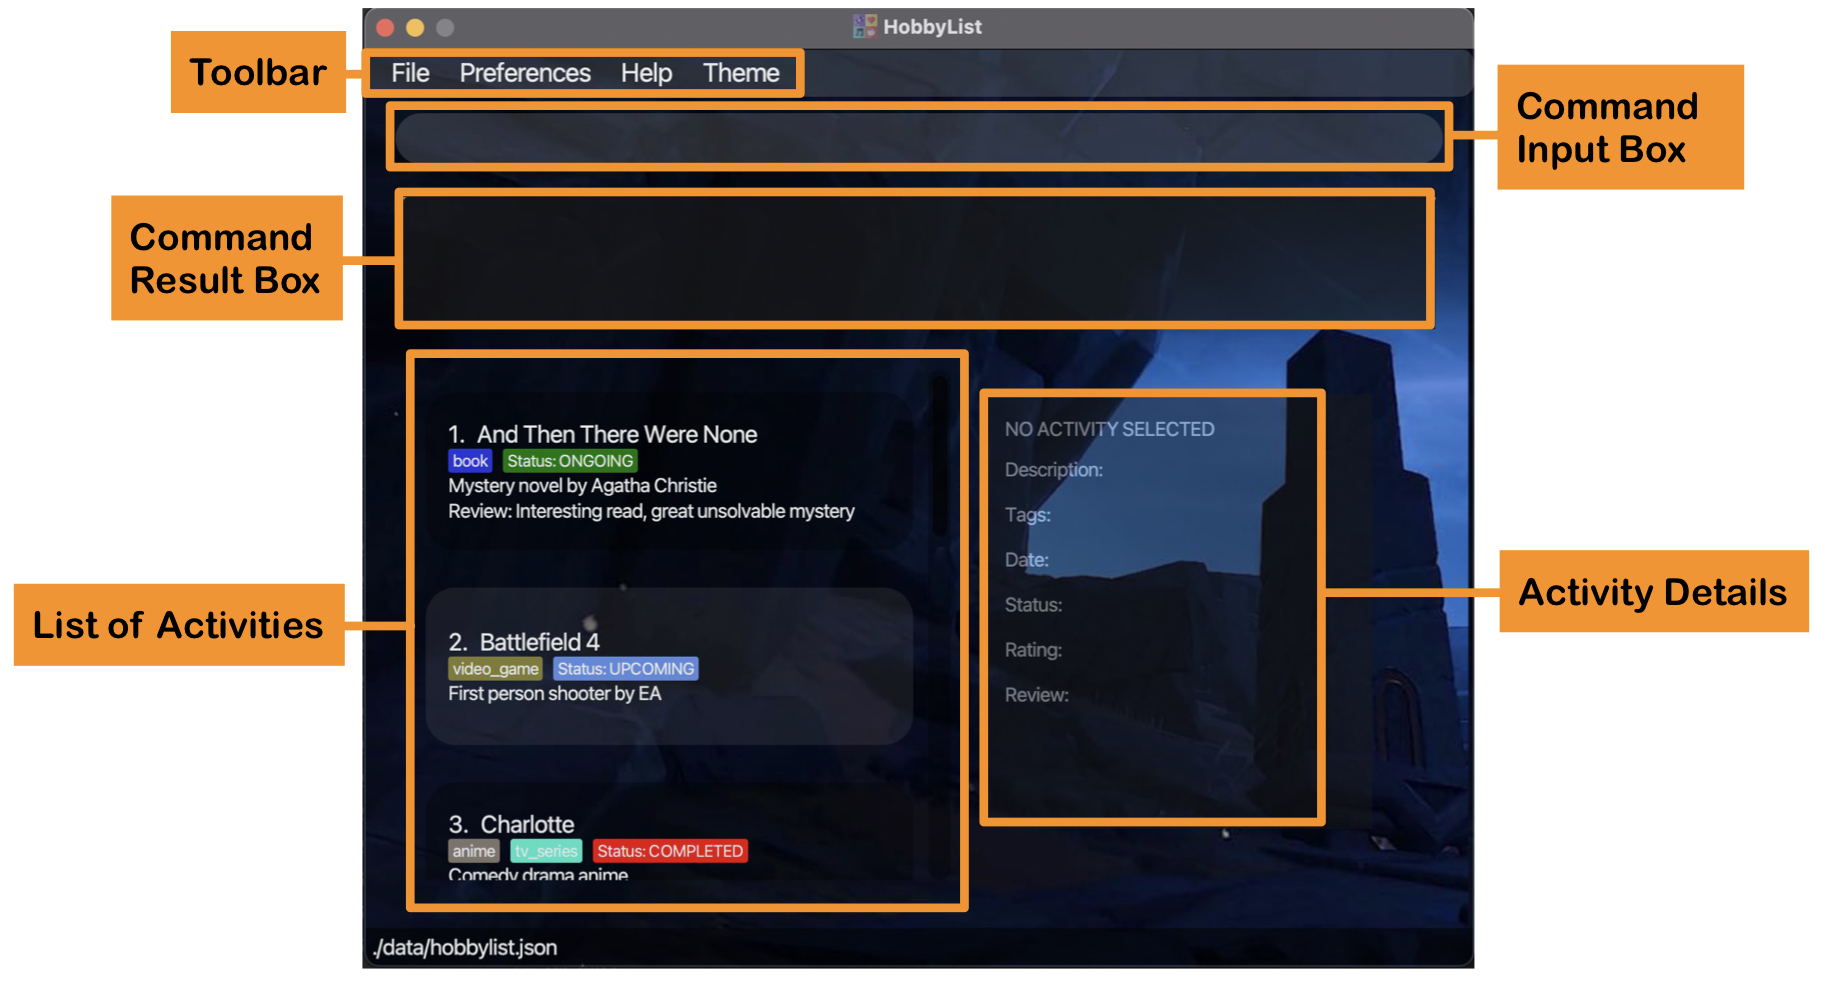
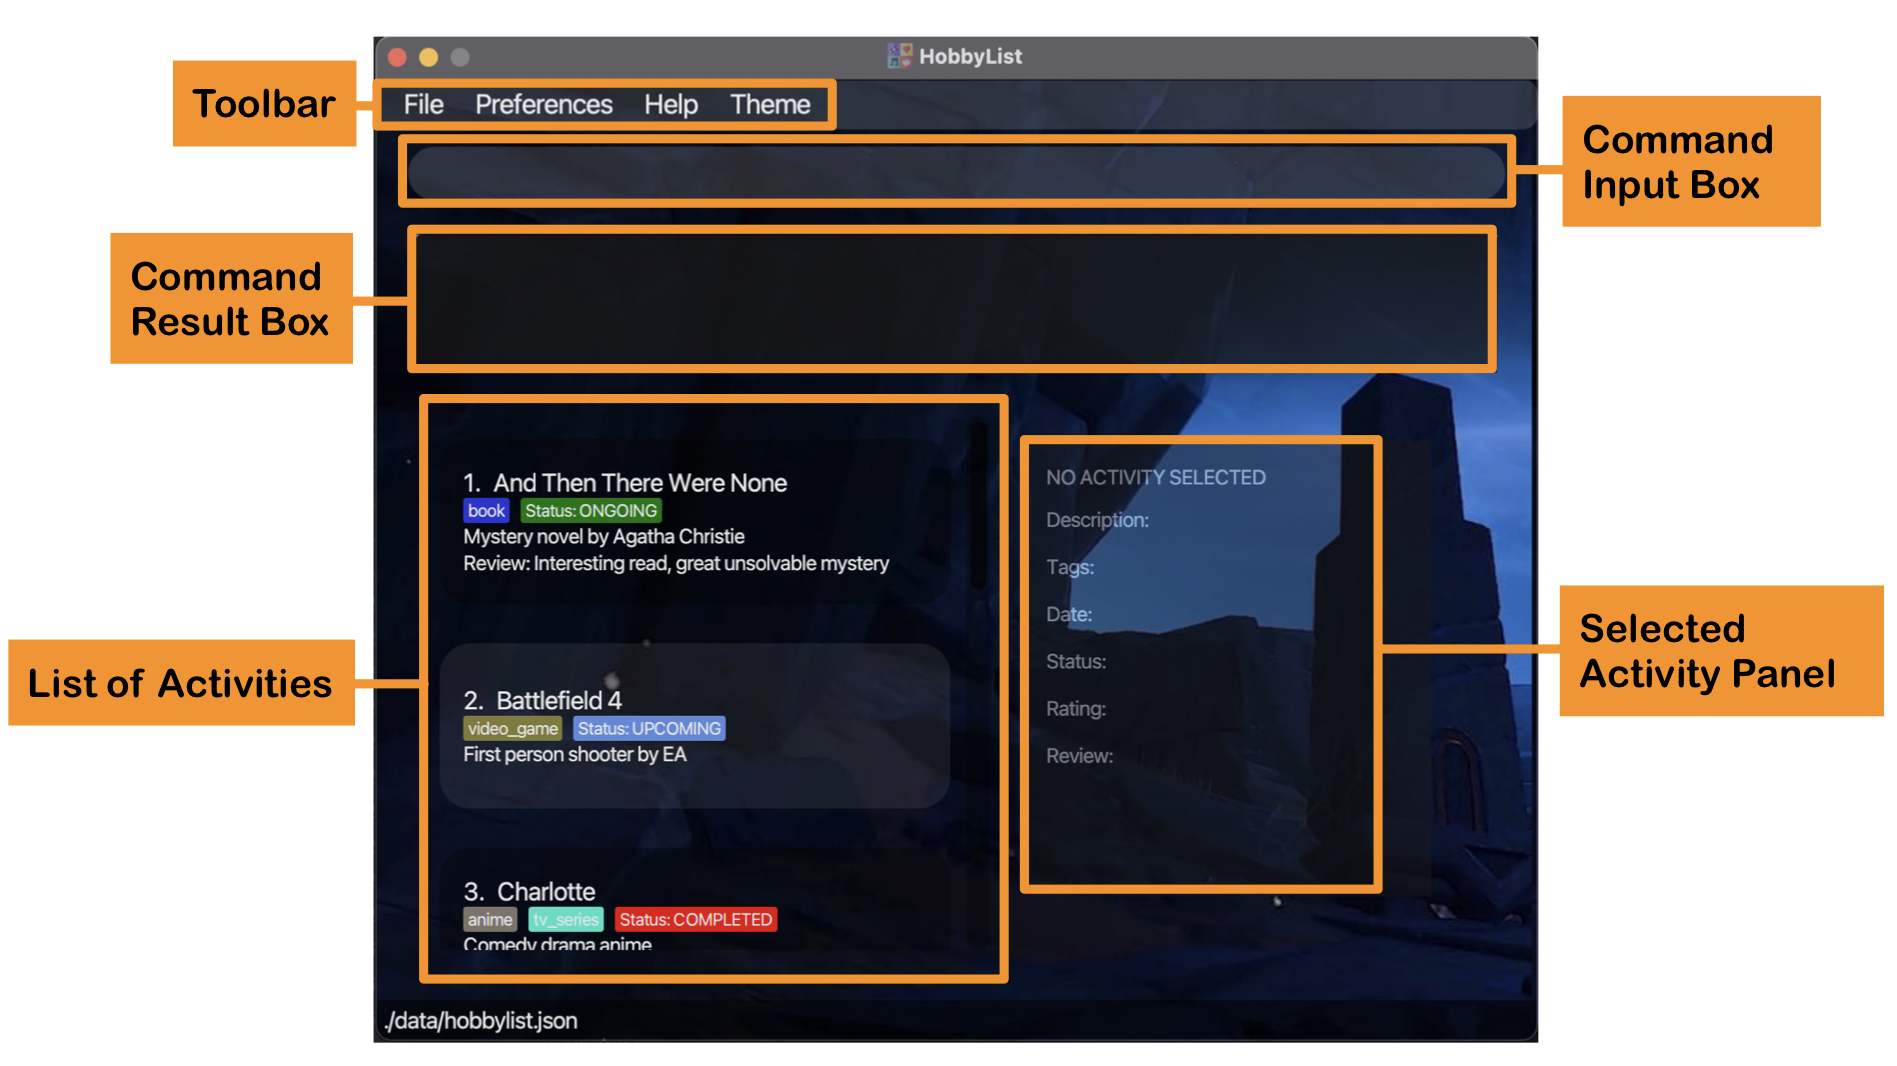
Fix layout

diff --git a/docs/UserGuide.md b/docs/UserGuide.md
@@ -113,20 +113,20 @@ _Figure 1: HobbyList's default UI_
 
 --------------------------------------------------------------------------------------------------------------------
 
-## 4. HobbyList User Interface
+## **4. HobbyList User Interface**
 
 Refer to Figure 2 below to get yourself familiar with the user interface! 
 
 ![HobbyList UI](images/annotated_ui.jpg)
 _Figure 2: Annotated GUI of HobbyList_
 
-| Section            | Description                                                                                                                                    |
-|--------------------|------------------------------------------------------------------------------------------------------------------------------------------------|
-| Toolbar            | Provides functionality for you to exit the application, rename commands, access the help page and change the appearance of the user interface. |
-| Command Input Box  | This is where you can type and perform the different commands available.                                                                       |
-| Command Result Box | This box displays information related to the commands you execute.                                                                             |
-| List of Activites  | This section displays the activity list and can display a subset of activities depending on the command you perform.                           |
-| Activity Details   | This box displays an activity's information after you perform the `select` command.                                                            |
+| Section                 | Description                                                                                                                                    |
+|-------------------------|------------------------------------------------------------------------------------------------------------------------------------------------|
+| Toolbar                 | Provides functionality for you to exit the application, rename commands, access the help page and change the appearance of the user interface. |
+| Command Input Box       | This is where you can type and perform the different commands available.                                                                       |
+| Command Result Box      | This box displays information related to the commands you execute.                                                                             |
+| List of Activites       | This section displays the activity list and can display a subset of activities depending on the command you perform.                           |
+| Selected Activity Panel | This box displays an activity's information after you perform the `select` command.                                                            |
 
 --------------------------------------------------------------------------------------------------------------------
 
@@ -187,7 +187,7 @@ Examples:
   *Adds an activity with the name "Badminton", description "play badminton", tags "sport" and "entertainment", date "2022-10-19" and status "COMPLETED".*
 
 ![AddActivityExample](images/add_command_example.png)
-_Figure 3: New activity added after running `add n/Badminton d/play badminton t/sport t/entertainment date/2022-10-19 s/completed`
+_Figure 3: New activity added after running `add n/Badminton d/play badminton t/sport t/entertainment date/2022-10-19 s/completed`_
 
 <a name="what-is-an-activity"></a>
 <div markdown="block" class="alert alert-info">
@@ -195,13 +195,13 @@ _Figure 3: New activity added after running `add n/Badminton d/play badminton t/
 :information_source: **What is an activity?**<br>
 
 Every entry in HobbyList is an activity. Each activity contains the fields below.
-* *Name*: What the activity is called. Not optional.
-* *Description*: What the activity is about. Not optional.
-* *Tags*: What type of activity it is. Helps you to organise your activities. For example, you can have different activities tagged "book", "movie" or "recipe". Each activity can have multiple tags. Optional.
-* *Date*: When the activity was/will be done. Currently, each activity can only have one date, which you can set it to be the starting date, the ending date, or anything you like. Optional.
-* *Status*: Whether the activity is upcoming, ongoing or completed. Optional.
-* *Rating*: How good the activity is to you, on a scale of 1 to 5. Optional.
-* *Review*: Your feelings about the activity after completing it. Optional.
+* **Name**: What the activity is called. _Compulsory_.
+* **Description**: What the activity is about. _Compulsory_.
+* **Tags**: What type of activity it is. Helps you to organise your activities. For example, you can have different activities tagged "book", "movie" or "recipe". Each activity can have multiple tags. _Optional_.
+* **Date**: When the activity was/will be done. Currently, each activity can only have one date, which you can set it to be the starting date, the ending date, or anything you like. _Optional_.
+* **Status**: Whether the activity is upcoming, ongoing or completed. _Optional_.
+* **Rating**: How good the activity is to you, on a scale of 1 to 5. _Optional_.
+* **Review**: Your feelings about the activity after completing it. _Optional_.
 
 </div>
 
